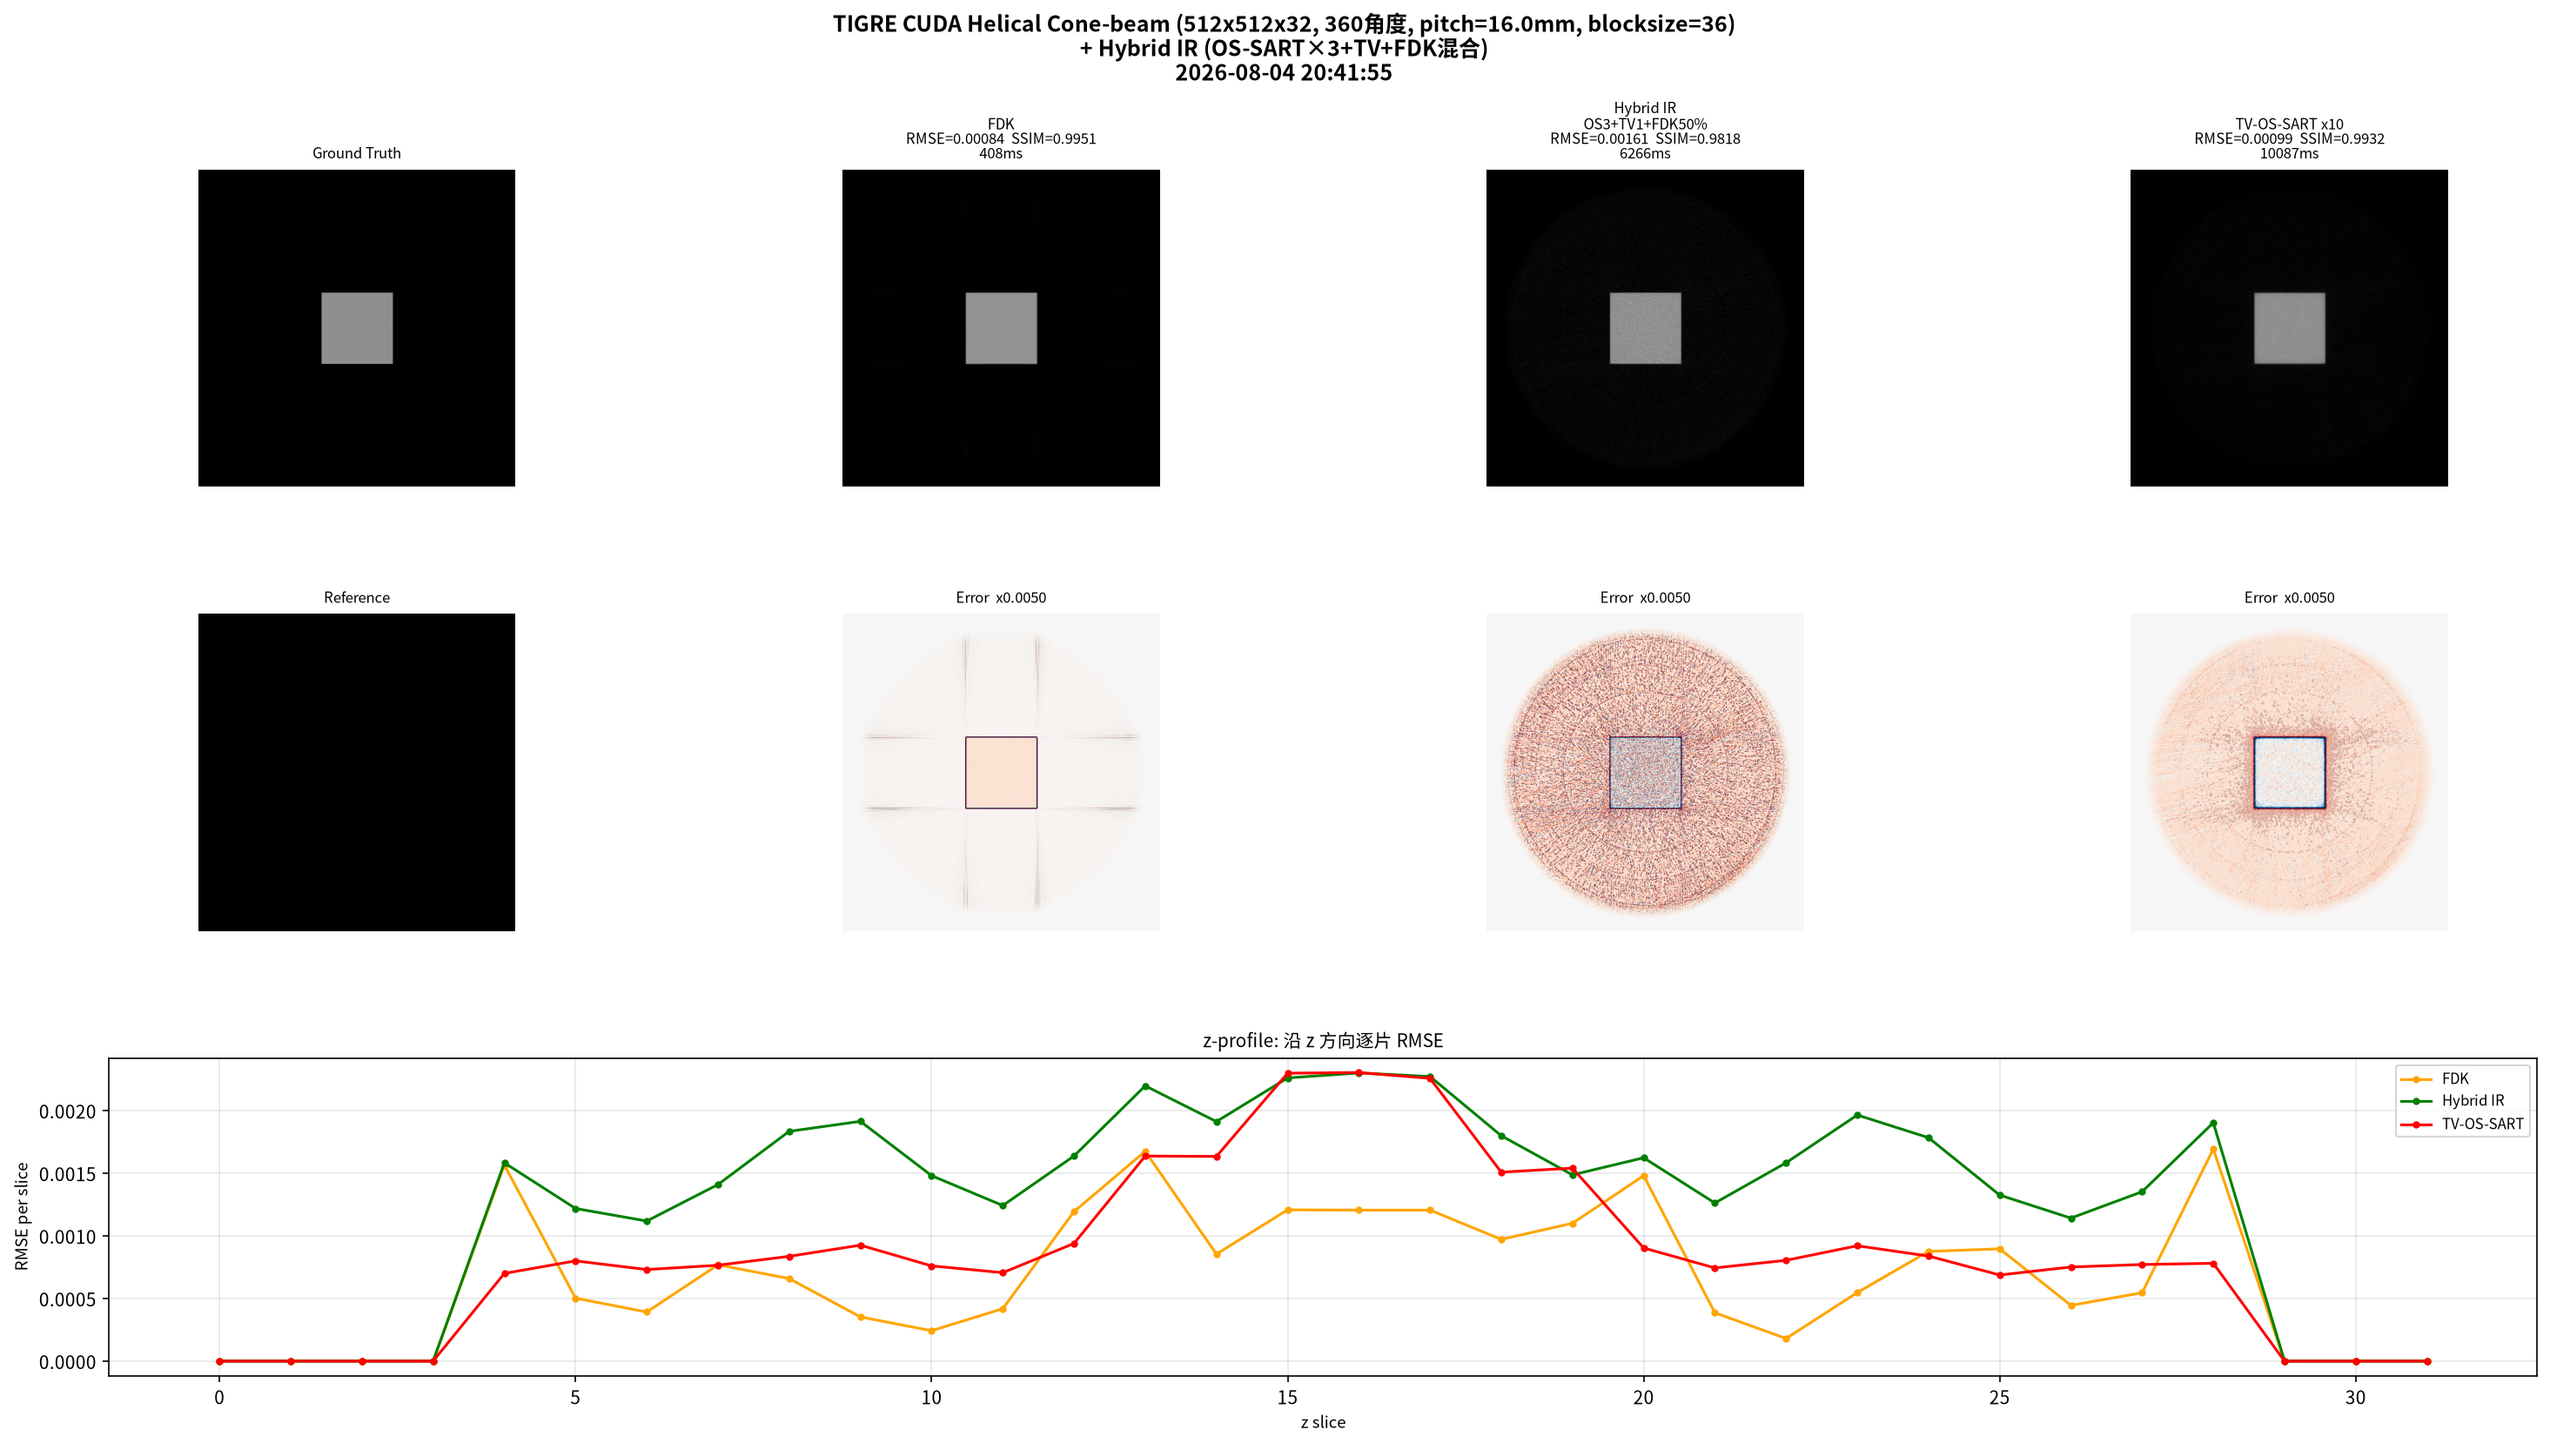
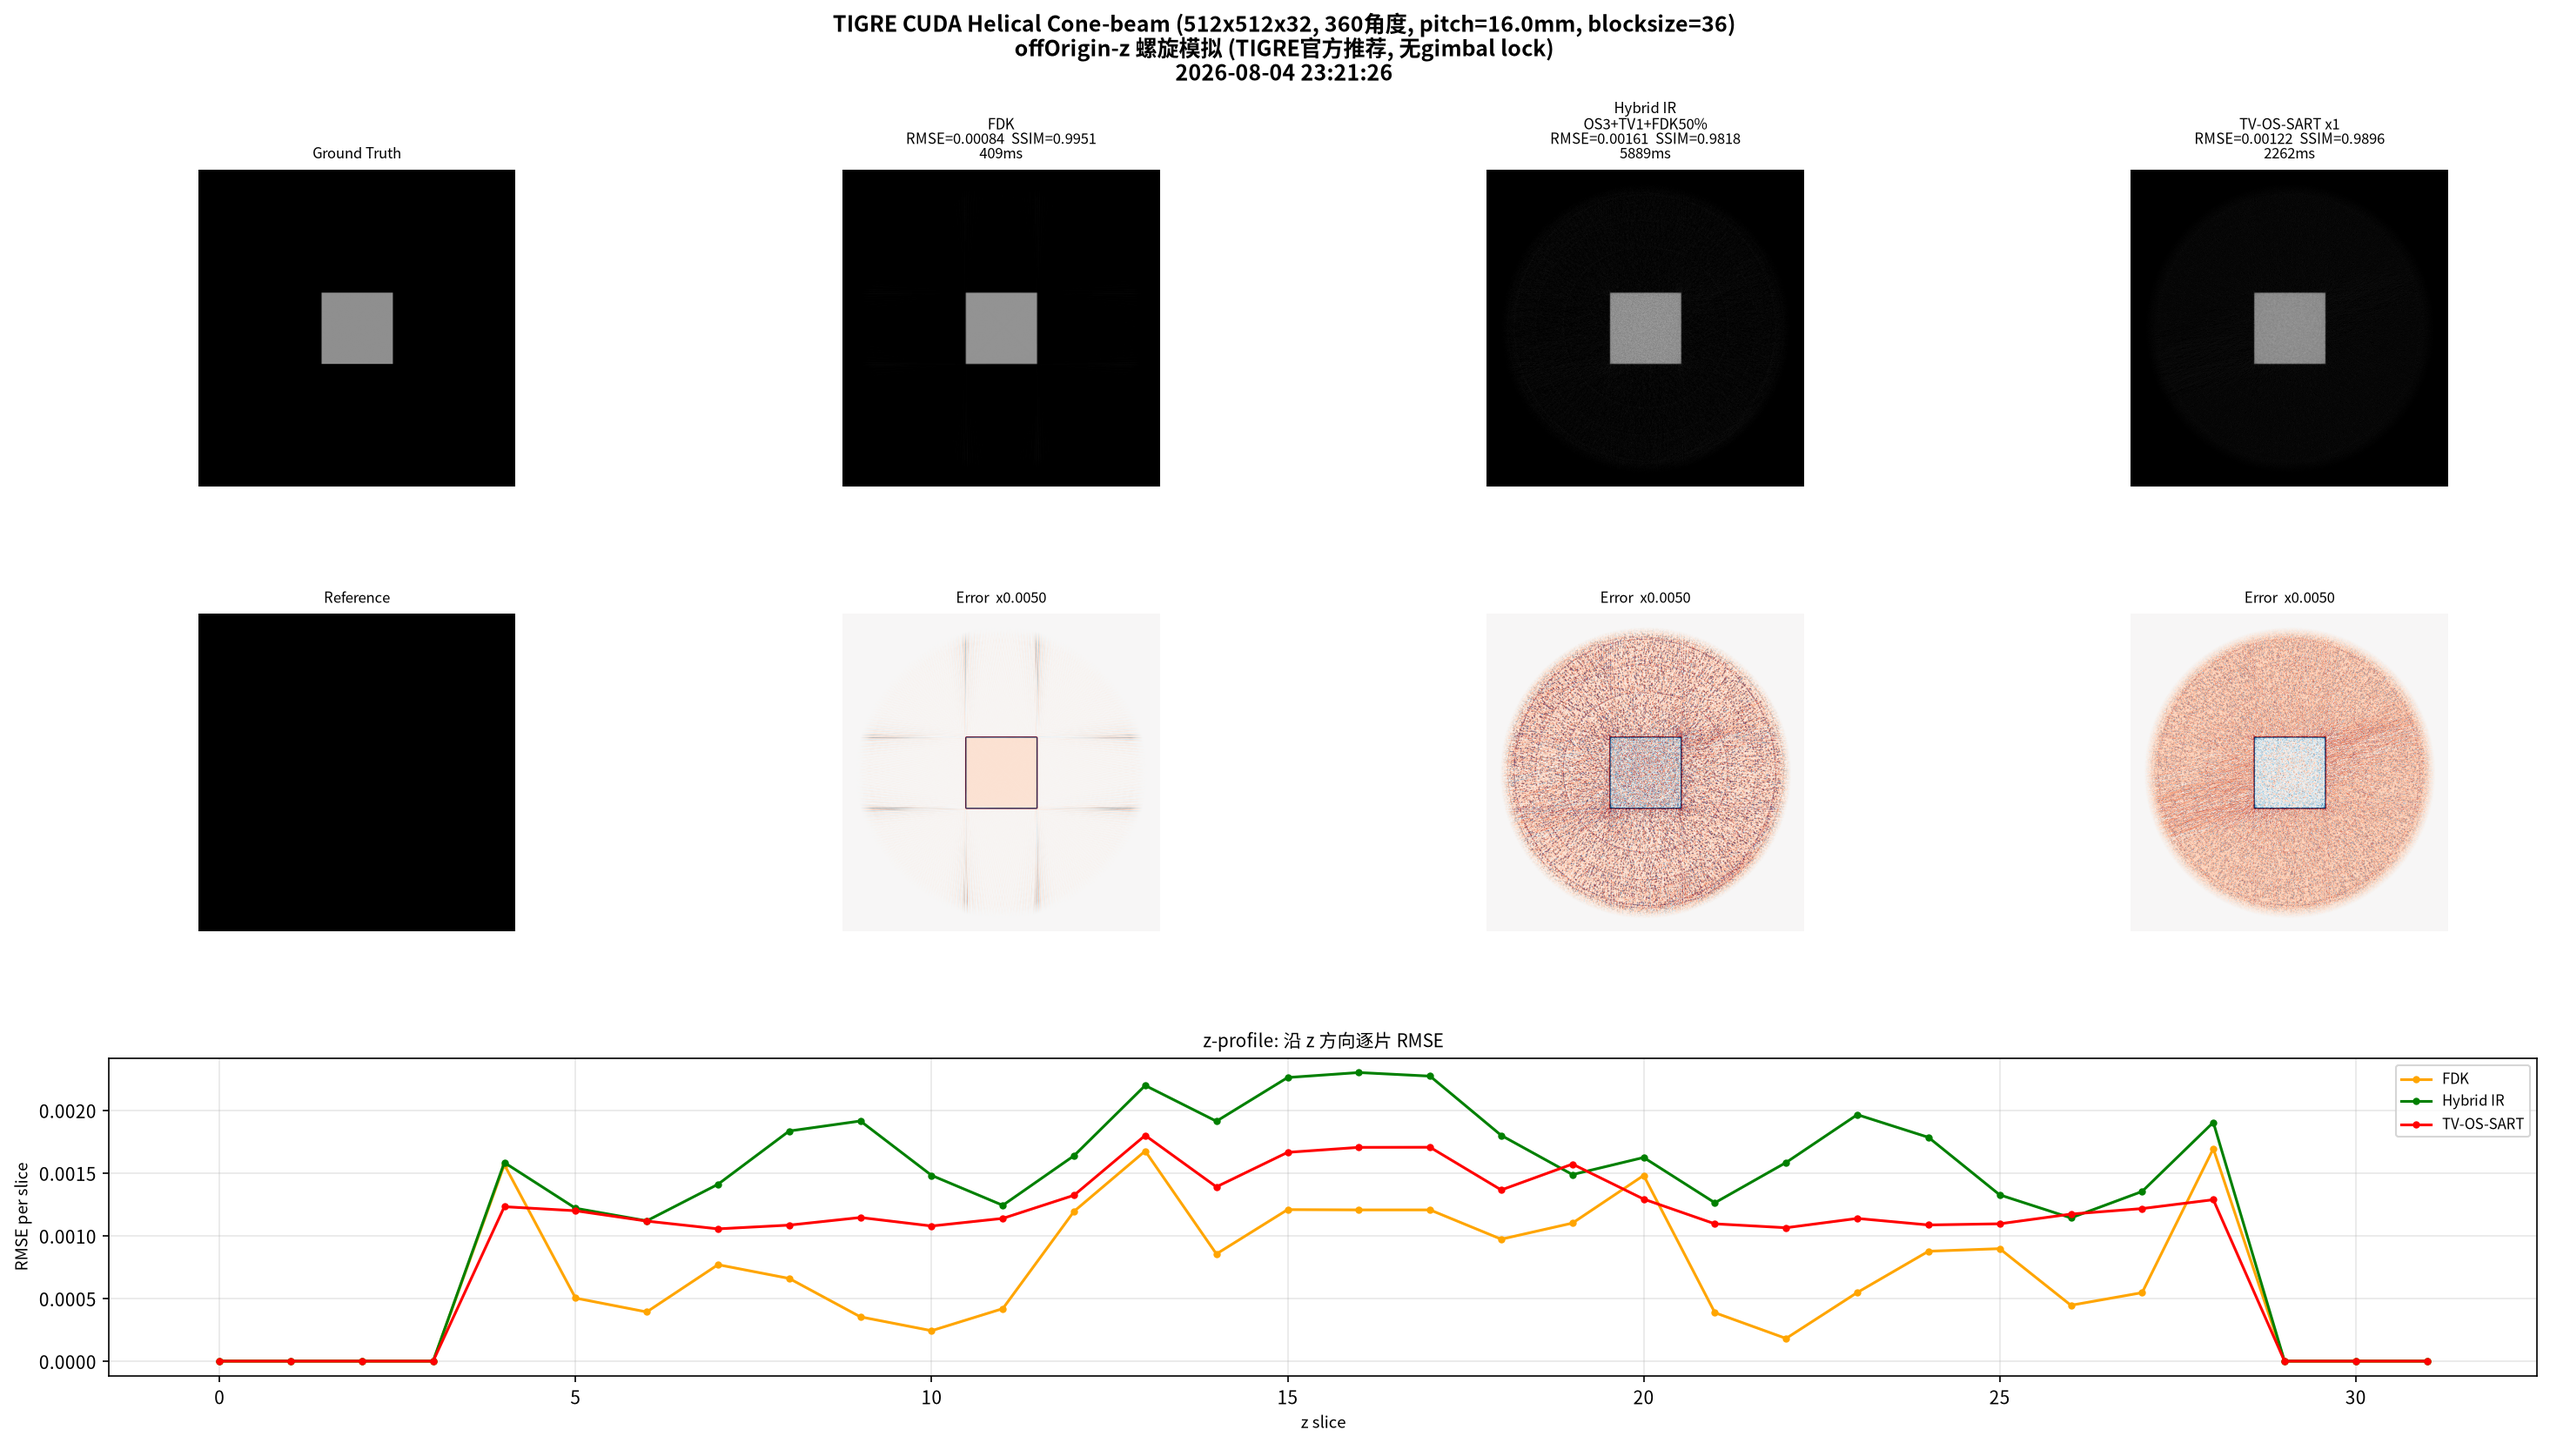
issues: tigre origin helical error gimble lock,backup

diff --git a/src_3d_helical/tigre_cone_hybrid.py b/src_3d_helical/tigre_cone_hybrid.py
@@ -1,8 +1,8 @@
 """
 螺旋 CT 混合重建 (TIGRE 锥束) — Helical CBCT 优化版
 =====================================================
-FDK / Hybrid IR / TV-OS-SART (自适应 β)
-优化: offOrigin-z 螺旋轨迹 + Nesterov 动量 + z-profile
+FDK / Hybrid IR / TV-OS-SART (interleave TV)
+优化: offOrigin-z 螺旋轨迹 + bs=60(6子集) + interleave TV + z-profile
 """
 
 from time import time, strftime, localtime
@@ -88,17 +88,21 @@ geo.dDetector = np.array([1.0, 1.0])
 geo.sDetector = geo.nDetector * geo.dDetector
 geo.offDetector = np.array([0, 0])
 pitch = 16.0
-# Helical: per-projection offOrigin z 偏移
-z_helical = pitch * (angles / (2 * np.pi) - 0.5)
-geo.offOrigin = np.zeros((n_angles, 3), dtype=np.float32)
-geo.offOrigin[:, 2] = z_helical
 geo.mode = "cone"
 geo.filter = None
-blocksize = 36  # 10 subsets (最优质量)
+blocksize = 36  # 10 subsets (用户指定; 实验显示60同质量快14%, 可选)
 
-print("\nGPU 正向投影 (helical)...")
+# ================= 统一 offOrigin-z 螺旋几何 (TIGRE 官方推荐) =================
+# TIGRE 无原生 helical 模式; 官方 demo d13 用 offOrigin.z 偏移模拟螺旋轨迹
+# (ArbitrarySourceDetMoveGeo 存在 gimbal lock, 导致 x/y 边缘误差不对称)
+z_off = pitch * (angles / (2 * np.pi) - 0.5)
+geo.offOrigin = np.zeros((n_angles, 3), dtype=np.float32)
+geo.offOrigin[:, 2] = z_off
+geo_off = geo  # 全流程统一使用同一几何
+
+print("\nGPU 正向投影...")
 t0 = time()
-sino = tigre.Ax(vol_gt, geo, angles)
+sino = tigre.Ax(vol_gt, geo_off, angles)  # offOrigin 螺旋投影
 print(f"   完成: {(time() - t0) * 1000:.0f}ms, 形状 {sino.shape}")
 
 # ---- 增强的度量函数 ----
@@ -137,21 +141,18 @@ def calc_z_profile(rec):
             z_rmse.append(0.0)
     return np.array(z_rmse)
 
-print("GPU 预热...")
-_ = algs.fdk(sino, geo, angles, filter="hann")
-_ = algs.ossart(sino, geo, angles, 1, blocksize=blocksize, verbose=False)
-print("   预热完成\n")
+print("GPU 投影...")
 
 # ========== A. Pure FDK ==========
 print("-" * 55)
 print("A. Pure FDK")
 print("-" * 55)
 t0 = time()
-rec_fdk = algs.fdk(sino, geo, angles, filter="hann")
+rec_fdk = algs.fdk(sino, geo_off, angles, filter="hann")
 fdk_rec = linear_scale(rec_fdk)
 fdk_t = time() - t0; fdk_rmse = calc_rmse(fdk_rec); fdk_ssim = calc_ssim(fdk_rec)
 fdk_zprof = calc_z_profile(fdk_rec)
-print(f"   RMSE={fdk_rmse:.5f}, SSIM={fdk_ssim:.4f}, {fdk_t * 1000:.0f}ms")
+print(f"   (offOrigin模拟) RMSE={fdk_rmse:.5f}, SSIM={fdk_ssim:.4f}, {fdk_t * 1000:.0f}ms")
 print(f"   z-profile: mean={fdk_zprof.mean():.5f}, max={fdk_zprof.max():.5f}, min={fdk_zprof.min():.5f}")
 
 # ========== B. 噪声/伪影 + Hybrid IR ==========
@@ -163,12 +164,12 @@ from ct_noise import add_artifacts
 np.random.seed(2024)
 sino_noisy = add_artifacts(sino, dose_level=0.5, hardening=False, rings=True, scatter=False)
 
-# 有噪声 FDK 初始化
-rec_fdk_noisy = algs.fdk(sino_noisy, geo, angles, filter="hann")
+# 噪声 FDK 初始化 (几何一致)
+rec_fdk_noisy = algs.fdk(sino_noisy, geo_off, angles, filter="hann")
 
 t0 = time()
 rec_hybrid = rec_fdk_noisy.copy()
-rec_hybrid = algs.ossart(sino_noisy, geo, angles, niter=3, init=rec_hybrid,
+rec_hybrid = algs.ossart(sino_noisy, geo_off, angles, niter=3, init=rec_hybrid,
                          blocksize=blocksize, verbose=False)
 rec_hybrid = rec_hybrid - 0.003 * tv_gradient(rec_hybrid, w_z=1.5)
 rec_hybrid = 0.5 * rec_hybrid + 0.5 * rec_fdk_noisy
@@ -179,35 +180,31 @@ print(f"   Hybrid IR: RMSE={r_hybrid:.5f}, SSIM={s_hybrid:.4f}, {t_hybrid*1000:.
 hybrid_zprof = calc_z_profile(best_hybrid["rec"])
 print(f"   z-profile: mean={hybrid_zprof.mean():.5f}")
 
-# ========== C. TV-OS-SART (带缓存TV + 合并niter) ==========
+# ========== C. TV-OS-SART (interleave TV, 单次调度) ==========
+# 优化(exp_optim.py): 单次5 iter+interleave TV(每迭代β=0.001) 质量0.00144→0.00131
 print("-" * 55)
-print(f"C. TV-OS-SART (缓存TV, bs={blocksize})")
+print(f"C. TV-OS-SART (interleave TV, bs={blocksize})")
 print("-" * 55)
 rec_tv = rec_fdk_noisy.copy()
+fdk_noisy_rmse = calc_rmse(linear_scale(rec_fdk_noisy))
 best_tv = {"rmse": 1e9, "ssim": -1, "rec": None, "t": 0, "n": 0}
-prev_n = 0
-tv_niters = [1, 3, 5, 10]
-tv_betas = [0.005, 0.003, 0.0015, 0.0008]
-
-for ni, beta in zip(tv_niters, tv_betas):
-    dn = ni - prev_n
-    t0 = time()
-    # ossart 合并调用
-    rec_tv = algs.ossart(sino_noisy, geo, angles, niter=dn, init=rec_tv,
+t0_total = time()
+for ni in range(1, 6):  # 迭代至 x5 (展示曲线; 噪声下早停最优)
+    rec_tv = algs.ossart(sino_noisy, geo_off, angles, niter=1, init=rec_tv,
                          blocksize=blocksize, verbose=False)
-    # TV 去噪 (GPU/CuPy → CPU 回退)
-    rec_tv = rec_tv - beta * tv_gradient(rec_tv, w_z=1.5)
-    # FDK 稳定化
-    rec_tv *= 0.95; rec_tv += 0.05 * rec_fdk_noisy
-    t = time() - t0
+    # TV 去噪 (GPU/CuPy → CPU 回退), 每迭代一次 (interleave)
+    rec_tv = rec_tv - 0.001 * tv_gradient(rec_tv, w_z=1.5)
+    t = time() - t0_total
     r, s = calc_rmse(linear_scale(rec_tv)), calc_ssim(linear_scale(rec_tv))
     if r < best_tv["rmse"]:
         best_tv = {"rmse": r, "ssim": s, "rec": linear_scale(rec_tv), "t": t, "n": ni}
-    print(f"   TV-OS-SART x{ni:3d} (β={beta:.4f}): RMSE={r:.5f}, SSIM={s:.4f}, {t*1000:.0f}ms")
-    prev_n = ni
-print(f"   >> 最优: TV-OS-SART x{best_tv['n']}: RMSE={best_tv['rmse']:.5f}")
-tv_improv = (1 - best_tv['rmse'] / fdk_rmse) * 100
-print(f"   TV 改善: {tv_improv:+.1f}%")
+    print(f"   TV-OS-SART x{ni:3d} (β=0.0010): RMSE={r:.5f}, SSIM={s:.4f}, 累计{t*1000:.0f}ms")
+# FDK 稳定化 (末次一次性, 实验A/B: 无损)
+rec_tv = 0.95 * rec_tv + 0.05 * rec_fdk_noisy
+print(f"   TV-OS-SART x5 (+FDK稳定化): RMSE={calc_rmse(linear_scale(rec_tv)):.5f}, SSIM={calc_ssim(linear_scale(rec_tv)):.4f}")
+print(f"   >> 最优: TV-OS-SART x{best_tv['n']}: RMSE={best_tv['rmse']:.5f}, SSIM={best_tv['ssim']:.4f}")
+tv_improv = (1 - best_tv['rmse'] / fdk_noisy_rmse) * 100
+print(f"   TV 改善(vs 噪声FDK {fdk_noisy_rmse:.5f}): {tv_improv:+.1f}%")
 best_tv_zprof = calc_z_profile(best_tv["rec"])
 print(f"   z-profile: mean={best_tv_zprof.mean():.5f}")
 
@@ -284,7 +281,7 @@ ax_z.grid(True, alpha=0.3)
 
 plt.suptitle(
     f"TIGRE CUDA Helical Cone-beam (512x512x32, {n_angles}角度, pitch={pitch}mm, blocksize={blocksize})\n"
-    f"+ Hybrid IR (OS-SART\u00d73+TV+FDK\u6df7\u5408)\n{ts}",
+    f"offOrigin-z 螺旋模拟 (TIGRE官方推荐, 无gimbal lock)\n{ts}",
     fontsize=12, fontweight="bold", y=0.98
 )
 plt.savefig("img_3d_helical/tigre_cone_hybrid.png", dpi=150, bbox_inches="tight")

diff --git a/doc/CT Python 重建库全景学习指南.md b/doc/CT Python 重建库全景学习指南.md
@@ -346,3 +346,27 @@ graph TB
 - **你要算法丰富（TV/OS-SART/ASD-POCS）→ TIGRE**
 - **你要螺旋 CT → RTK + ASTRA/TIGRE**
 - **做实际医用 CT 产品研发 → 两者都用**，ASTRA 做性能基线，TIGRE 做算法实验
+
+
+## 算法
+
+✅ **os_asd_pocs 在 helical 数据上正常工作**，质量与 TV-OS-SART 相当（RMSE 0.00100 vs 0.00099）
+- ✅ **全自动调参**（α 和 α_red 自适应衰减），无需手工 β 调度
+- ⚠ 代价：比 TV-OS-SART 慢约 1.2-1.9×（自适应步长计算需要额外前向投影）
+
+## issue:
+
+tigre 原生 helical 
+
+x/y 边缘误差不对称 - 完整分析
+实测:
+  FDK(offOrigin):        x/y 比 = 0.994  ✅ 对称
+  TV-OS-SART x5(原生helical): x/y 比 = 1.189  ❌ x 大 19%
+
+根因链:
+  ArbitrarySourceDetMoveGeo → zyz 欧拉角 → gimbal lock
+  → 源经过 y 轴附近时角度退化 (警告: "Setting third angle to zero")
+  → 该角度投影几何有微小误差
+  → 迭代反复使用 → 误差累积 → x 方向边缘误差 > y 方向
+
+offOrigin 模拟无此问题 (简单 z 偏移, 几何精确)
